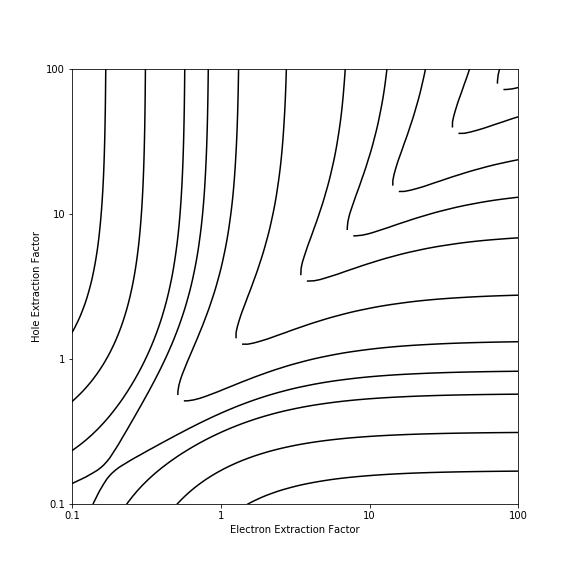
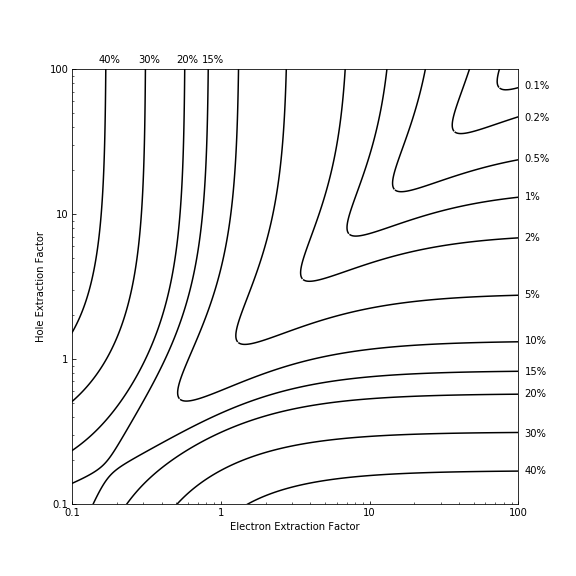
done p1

diff --git a/me701/hw6/boyington_john_hw6_p1.py b/me701/hw6/boyington_john_hw6_p1.py
@@ -25,8 +25,8 @@ def sig_Q(rho_e, rho_h) :
 def R(rho_e, rho_h) :
     return 100*sig_Q(rho_e, rho_h)/Q(rho_e, rho_h)
 
-def RR(rho_e):
-    return 100 - R(rho_e, 100)
+def RR(per, rho_e):
+    return per - R(rho_e, 100)
     
     
 n = 1000
@@ -38,14 +38,13 @@ res = R(E, H)
 
 
 # my code starts here
+# set the contour line locations
 peaks = np.array([0.1, 0.2, 0.5, 1, 2, 5, 10, 15, 20, 30, 40])
 
+# create the figure and subplot objects and produce contour plot
 fig = plt.figure(1, figsize=(8, 8))
 ax = fig.add_subplot(1, 1, 1)
 ax.contour(E, H, res, colors='k', levels=peaks)
-#ax.Axes.tick_params(direction='in')
-#plt.rc('xtick', direction='in')
-#plt.rc('ytick', direction='')
 
 plt.xlabel('Electron Extraction Factor')
 plt.ylabel('Hole Extraction Factor')
@@ -53,23 +52,38 @@ plt.ylabel('Hole Extraction Factor')
 plt.xscale('log')
 plt.yscale('log')
 
+ticker = (0.1, 1, 10, 100)
+plt.xticks(ticker, ticker)
+plt.yticks(ticker, ticker)
 
-#plt.xticks((-1, 0, 1, 2), (0.1, 1, 10, 100))
 plt.xlim(0.1, 100)
-
-#plt.yticks((-1, 0, 1, 2), (0.1, 1, 10, 100))
 plt.ylim(0.1, 100)
 
+# locations of the percentages
+text = [(110, 73, '0.1%'),
+        (110, 44, '0.2%'),
+        (110, 23, '0.5%'),
+        (110, 12.5, '1%'),
+        (110, 6.5, '2%'),
+        (110, 2.65, '5%'),
+        (110, 1.27, '10%'),
+        (110, .77, '15%'),
+        (110, .55, '20%'),
+        (110, .29, '30%'),
+        (110, .16, '40%'),
+        (.75, 110, '15%'),
+        (.5, 110, '20%'),
+        (.28, 110, '30%'),
+        (.15, 110, '40%')]
 
-for p in peaks:
-    print(RR(p))
-    z = sp.optimize.newton(RR, 10)
-    plt.text(110, np.log10(z), str(p))
+for x, y, t in text:
+    plt.text(x, y, t)
 
 
-#ticks = H
-#plt.gca().yaxis.set_ticks(np.log10(ticks))
 
-
+#for p in peaks:
+#    print(RR(p))
+#    z = sp.optimize.newton(RR, 10, args=(p))
+#    plt.text(110, z, str(p))
 
 plt.savefig('new_contour.png')
